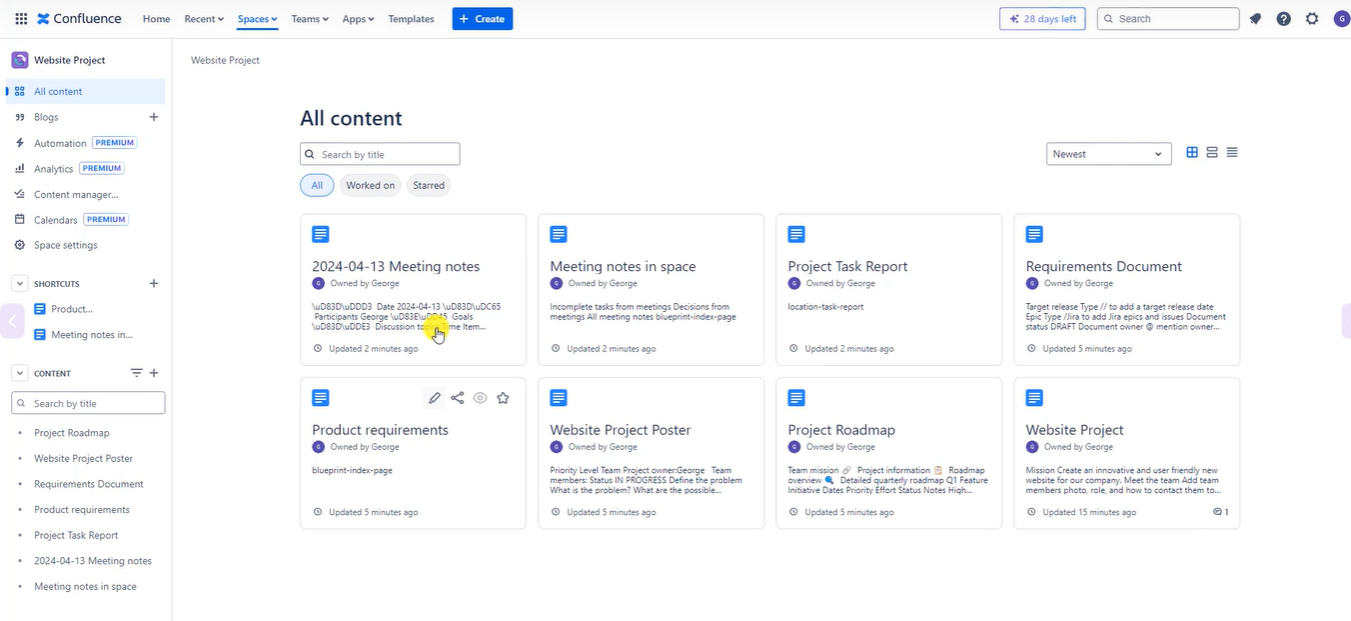
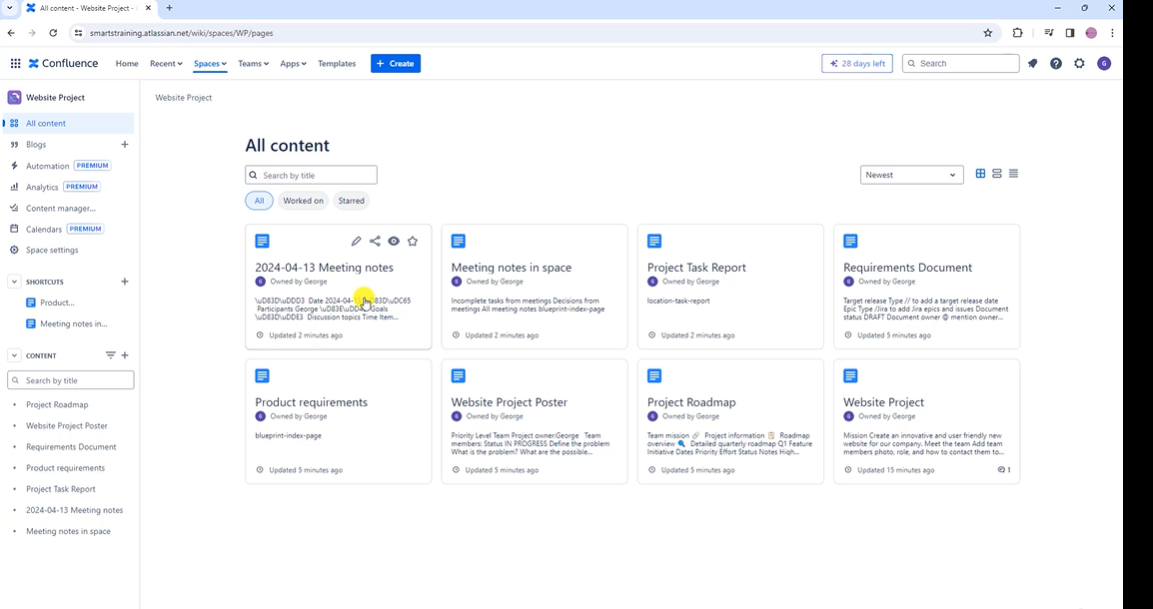
notes added

diff --git a/File0002.md b/File0002.md
@@ -13,3 +13,20 @@ and this is how you add people to your project.
 Add page in the content
 
 ![alt text](image-23.png)
+
+> We created the pages which we need
+> So you can create for your own project. Start from blank, or template
+> I just choose template in most cases and then amend it
+> Or you can also import
+
+![alt text](image-24.png)
+
+# 8. Working with text - text styles, text formatting, text alignment, color, lists
+
+## 10. Page Layouts
+
+![alt text](image-25.png)
+
+* you can also move the layout
+
+![alt text](image-26.png)
